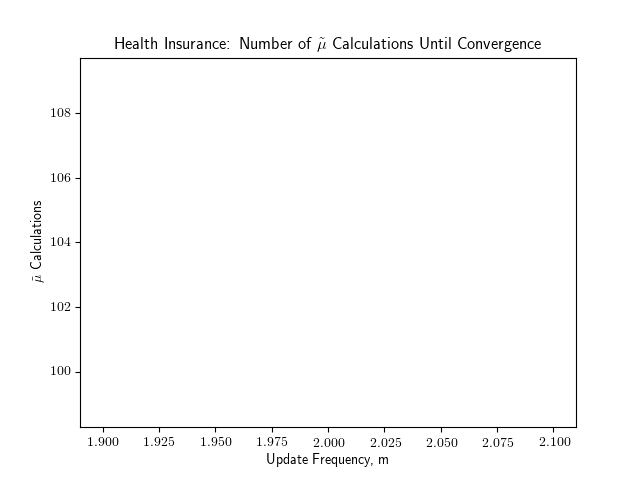
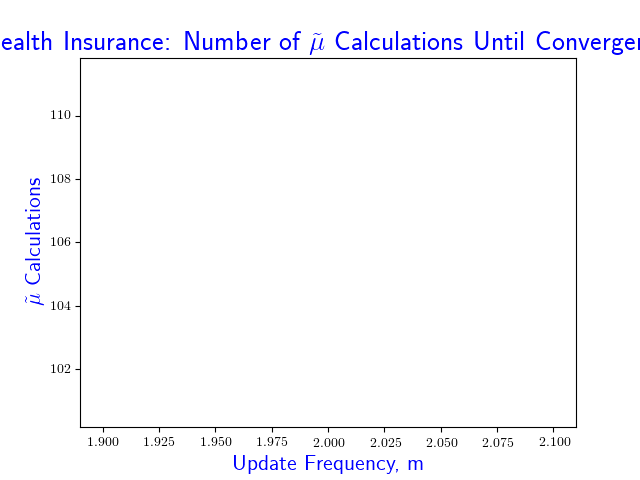
...

diff --git a/SVRG_experiments.py b/SVRG_experiments.py
@@ -197,6 +197,8 @@ def SVRG_logistic(X, y, update_freq, lr=0.5, eps=0.01):
 def SVRG_testbed(X_train, y_train, X_test, y_test):
     # Iterate over frequencies (for each model)
     # Comparison with CVX perhaps?
+    label_text_format = {'color': 'b', 'fontsize': 16}
+    title_text_format = {'color': 'b', 'fontsize': 20}
     update_freqs = [2]#,5,10,15,20,25,30,35,40,45,50,75,100]
     SVRG_ws = []
     SVRG_tot_iters = []
@@ -211,9 +213,9 @@ def SVRG_testbed(X_train, y_train, X_test, y_test):
 
     plt.figure(1)
     plt.plot(update_freqs, SVRG_s_iters)
-    plt.xlabel('Update Frequency, m')
-    plt.ylabel('$\\tilde{\mu}$ Calculations')
-    plt.title('Health Insurance: Number of $\\tilde{\mu}$ Calculations Until Convergence')
+    plt.xlabel('Update Frequency, m', label_text_format)
+    plt.ylabel('$\\tilde{\mu}$ Calculations', label_text_format)
+    plt.title('Health Insurance: Number of $\\tilde{\mu}$ Calculations Until Convergence', title_text_format)
     plt.savefig('SVRG_avg_grad_calcs_v_freq.png')
     #w = SGD_logistic(X_train.to_numpy(), y_train.to_numpy())
     #w = GD_logistic(X_train.to_numpy(), y_train.to_numpy(), 1e-4)
